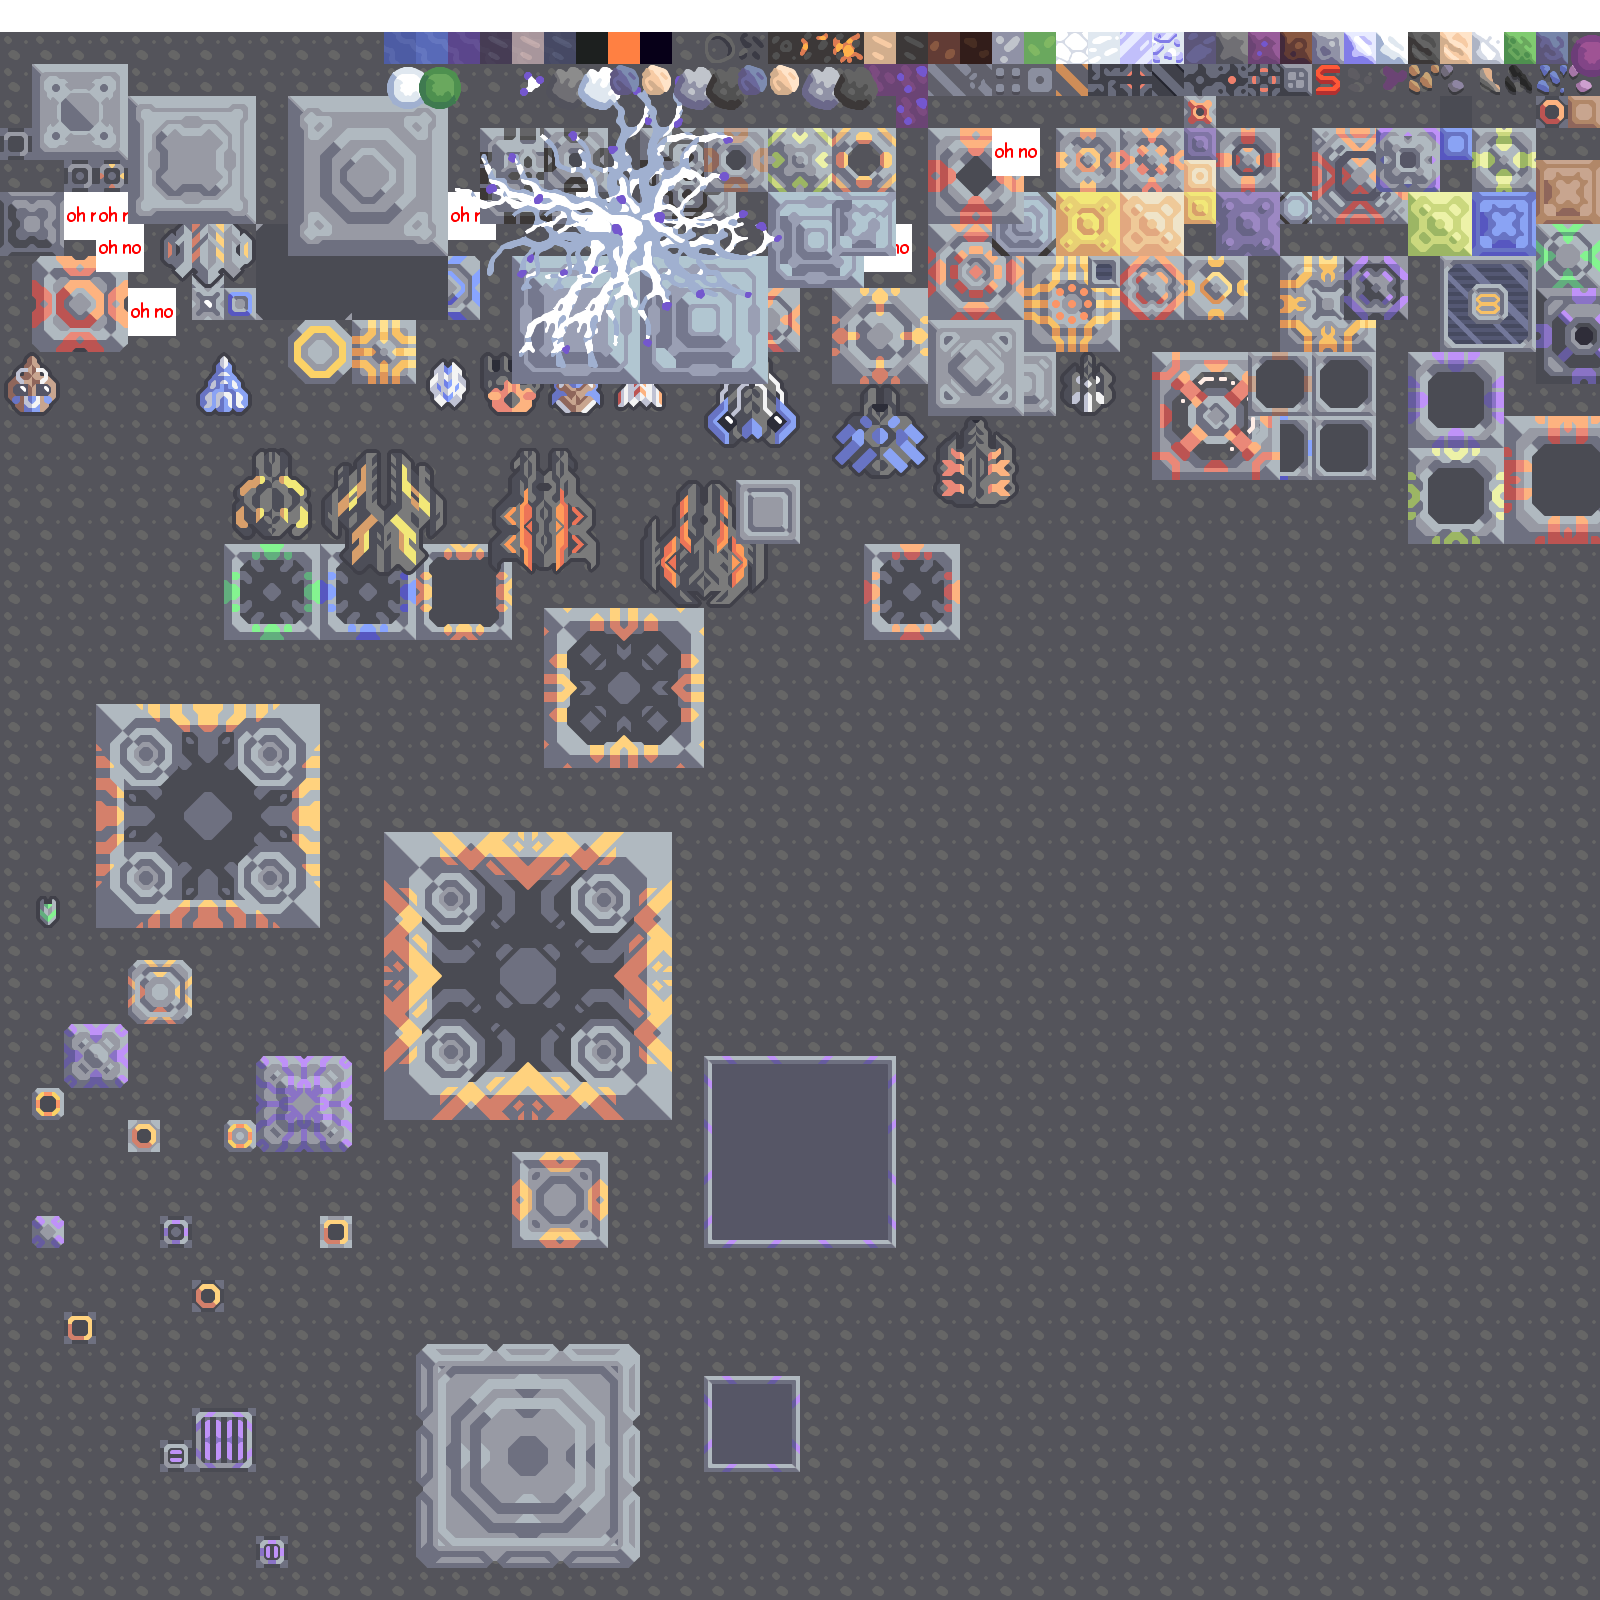
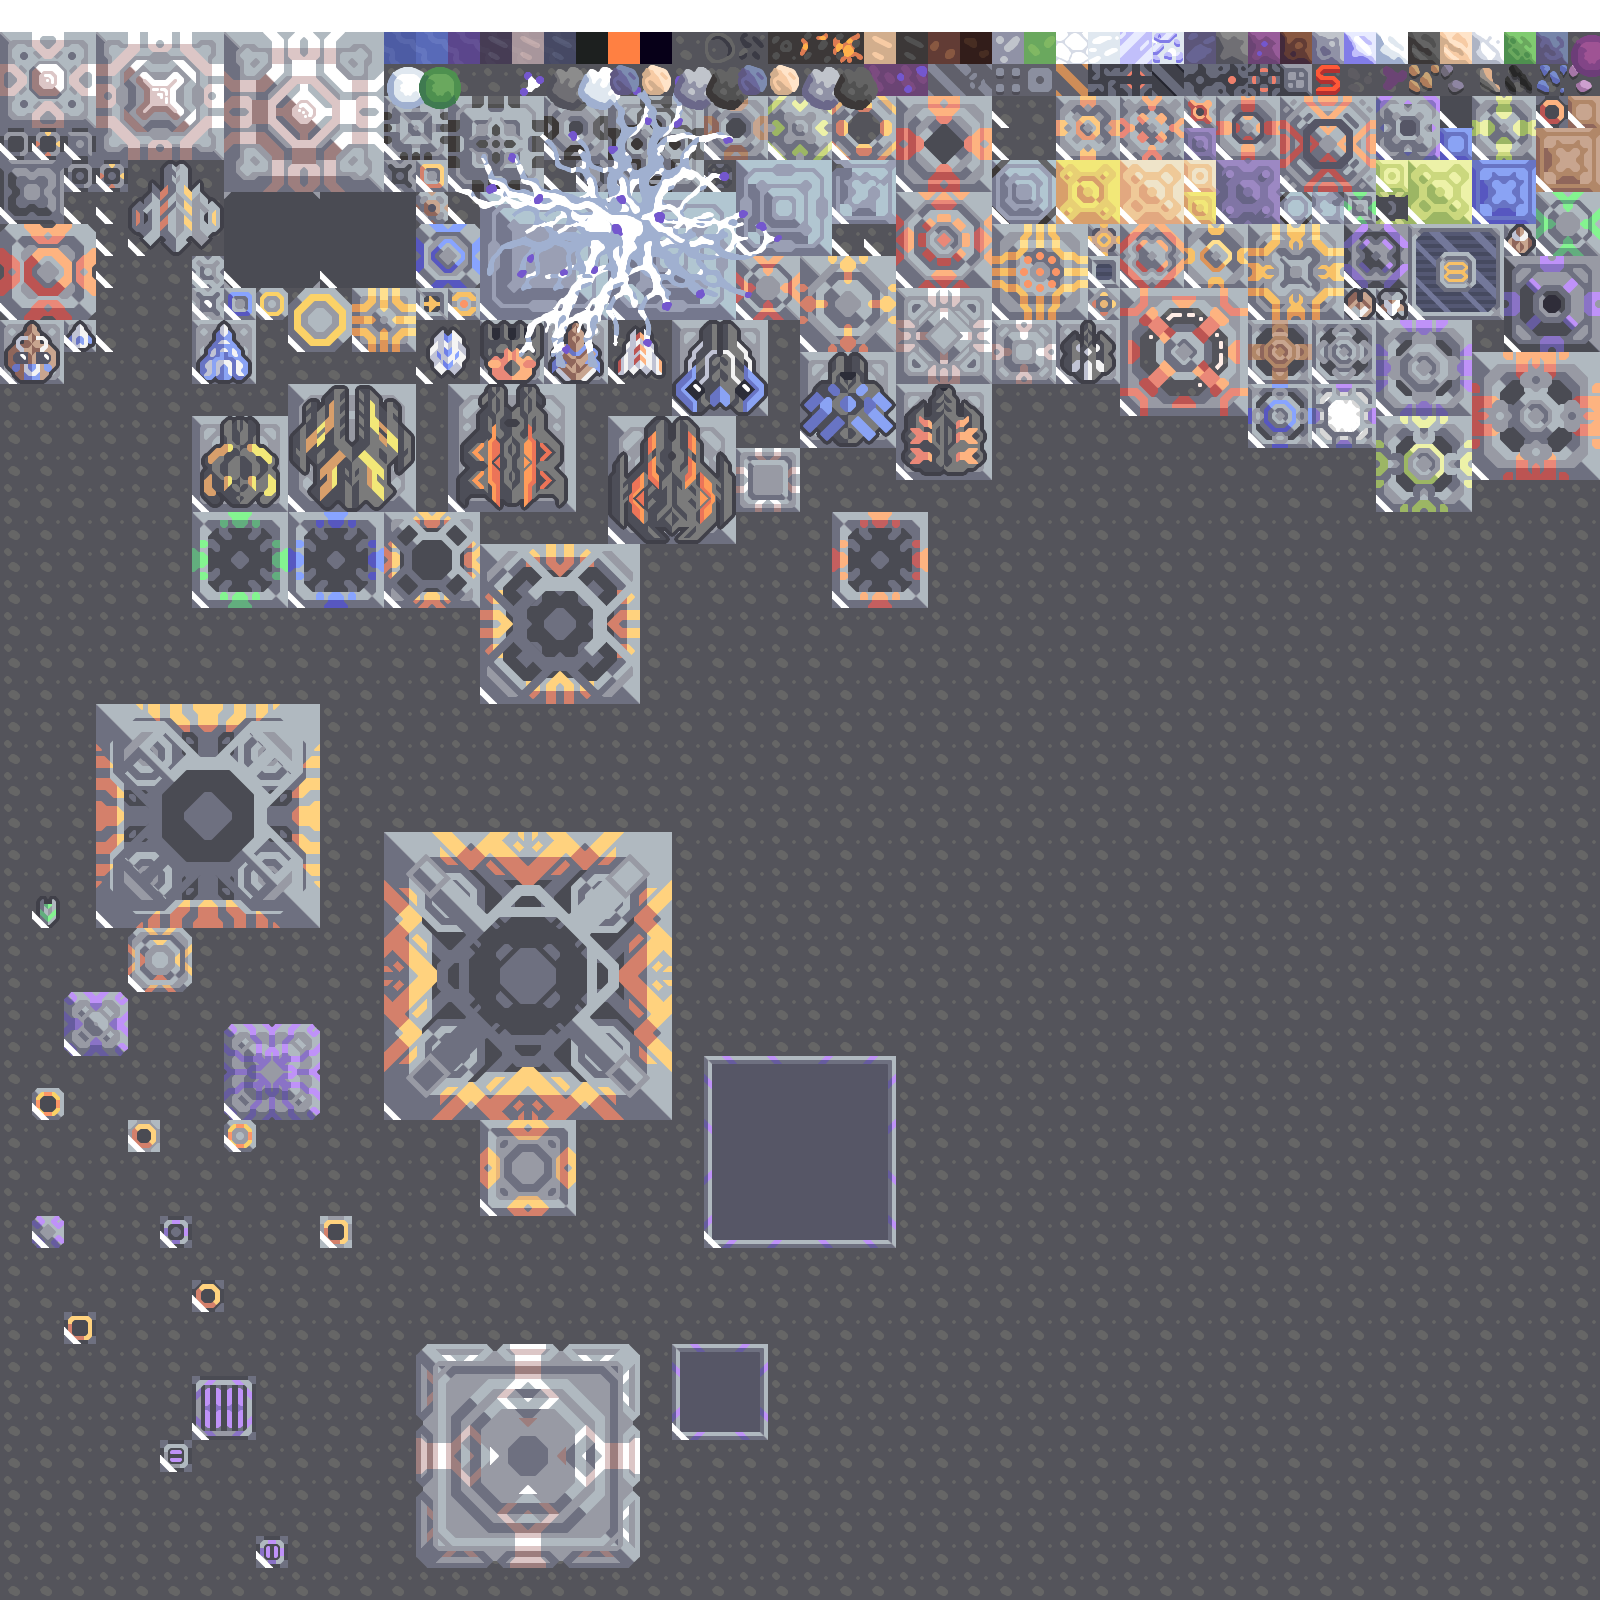
part of blocks drawing

diff --git a/src/main/java/uwu/misaka/Drawler.java b/src/main/java/uwu/misaka/Drawler.java
@@ -4,6 +4,12 @@ import arc.graphics.Pixmap;
 import arc.struct.Seq;
 import mindustry.content.Blocks;
 import mindustry.core.World;
+import mindustry.world.blocks.defense.turrets.Turret;
+import mindustry.world.blocks.distribution.Conveyor;
+import mindustry.world.blocks.production.Drill;
+import mindustry.world.blocks.production.Fracker;
+import mindustry.world.blocks.production.SolidPump;
+import mindustry.world.blocks.units.Reconstructor;
 
 import javax.imageio.ImageIO;
 import java.awt.image.BufferedImage;
@@ -70,7 +76,62 @@ public class Drawler {
                 continue;
             }
             try {
-                image.getGraphics().drawImage(Service.getMyPic(t.wall.region.toString()), t.x * 32, (y_size * 32) - (t.y * 32), null);
+                int y_offset = 0;
+                if (t.wall.size == 2) {
+                    y_offset = 1 * 32;
+                }
+                if (t.wall.size == 3) {
+                    y_offset = 1 * 32;
+                }
+                if (t.wall.size == 4) {
+                    y_offset = 2 * 32;
+                }
+                if (t.wall.size == 5) {
+                    y_offset = 2 * 32;
+                }
+                int x_offset = 0;
+                if (t.wall.size == 2) {
+                    //x_offset = 1*32;
+                }
+                if (t.wall.size == 3) {
+                    x_offset = 1 * 32;
+                }
+                if (t.wall.size == 4) {
+                    x_offset = 1 * 32;
+                }
+                if (t.wall.size == 5) {
+                    x_offset = 2 * 32;
+                }
+
+                if (t.wall instanceof Turret) {
+                    image.getGraphics().drawImage(Service.getMyPic("block-" + t.wall.size), t.x * 32 - x_offset, (y_size * 32) - (t.y * 32) - y_offset, null);
+                }
+
+                image.getGraphics().drawImage(Service.getMyPic(t.wall.region.toString()), t.x * 32 - x_offset, (y_size * 32) - (t.y * 32) - y_offset, null);
+
+                if ((t.wall instanceof Reconstructor)) {
+                    image.getGraphics().drawImage(Service.getMyPic(t.wall.region.toString() + "-top"), t.x * 32 - x_offset, (y_size * 32) - (t.y * 32) - y_offset, null);
+                } else if (t.wall instanceof Drill || t.wall instanceof SolidPump || t.wall instanceof Fracker) {
+                    image.getGraphics().drawImage(Service.getMyPic(t.wall.region.toString() + "-rotator"), t.x * 32 - x_offset, (y_size * 32) - (t.y * 32) - y_offset, null);
+                    image.getGraphics().drawImage(Service.getMyPic(t.wall.region.toString() + "-top"), t.x * 32 - x_offset, (y_size * 32) - (t.y * 32) - y_offset, null);
+                } else if (t.wall == Blocks.cultivator) {
+                    image.getGraphics().drawImage(Service.getMyPic(t.wall.region.toString() + "-middle"), t.x * 32 - x_offset, (y_size * 32) - (t.y * 32) - y_offset, null);
+                    image.getGraphics().drawImage(Service.getMyPic(t.wall.region.toString() + "-top"), t.x * 32 - x_offset, (y_size * 32) - (t.y * 32) - y_offset, null);
+                } else if (t.wall instanceof Conveyor) {
+                    if (t.wall != Blocks.plastaniumConveyor) {
+                        image.getGraphics().drawImage(Service.getMyPic(t.wall.region.toString() + "-0-0"), t.x * 32 - x_offset, (y_size * 32) - (t.y * 32) - y_offset, null);
+                    } else {
+                        image.getGraphics().drawImage(Service.getMyPic(t.wall.region.toString()), t.x * 32 - x_offset, (y_size * 32) - (t.y * 32) - y_offset, null);
+                    }
+                }
+                if ((t.wall.teamRegion != null || t.team != null) && t.wall.synthetic()) {
+                    if (t.wall.teamRegion.toString().equals("error")) {
+                        image.getGraphics().drawImage(Service.getMyPic(t.wall.teamRegion.toString()), t.x * 32 - x_offset, (y_size * 32) - (t.y * 32) - y_offset + (t.wall.size - 1) * 32, null);
+                    } else {
+                        image.getGraphics().drawImage(Service.getMyPic(t.wall.teamRegion.toString()), t.x * 32 - x_offset, (y_size * 32) - (t.y * 32) - y_offset, null);
+                    }
+                }
+
             } catch (NullPointerException | IOException e) {
                 e.printStackTrace();
                 break;

diff --git a/src/main/java/uwu/misaka/Service.java b/src/main/java/uwu/misaka/Service.java
@@ -42,7 +42,6 @@ public class Service {
 
     public static Seq<FakeTile> readMap(InputStream is) throws IOException {
         try (InputStream ifs = new InflaterInputStream(is); CounterInputStream counter = new CounterInputStream(ifs); DataInputStream stream = new DataInputStream(counter)) {
-            //Parser.Map out = new Parser.Map();
             Seq<FakeTile> rtn = new Seq<>();
             SaveIO.readHeader(stream);
             int version = stream.readInt();
@@ -52,21 +51,12 @@ public class Service {
 
             StringMap meta = metaOut[0];
 
-            //out.name = meta.get("name", "Unknown");
-            //out.author = meta.get("author");
-            //out.description = meta.get("description");
-            //out.tags = meta;
 
             int width = meta.getInt("width"), height = meta.getInt("height");
 
             Entry.w = width;
             Entry.h = height;
 
-//            var floors = new BufferedImage(width, height, BufferedImage.TYPE_INT_ARGB);
-//            var walls = new BufferedImage(width, height, BufferedImage.TYPE_INT_ARGB);
-//            var fgraphics = floors.createGraphics();
-//            var jcolor = new java.awt.Color(0, 0, 0, 64);
-//            int black = 255;
             CachedTile tile = new CachedTile() {
                 @Override
                 public void setBlock(Block type) {
@@ -102,6 +92,15 @@ public class Service {
                 @Override
                 public void onReadBuilding() {
                     //read team colors
+                    if (tile.build != null) {
+                        FakeTile t = rtn.find(a -> a.x == tile.x && a.y == tile.y);
+                        if (t != null) {
+                            t.build = tile.build;
+                            if (tile.team() != null) {
+                                t.team = tile.team();
+                            }
+                        }
+                    }
                 }
 
                 @Override
@@ -187,6 +186,14 @@ public class Service {
     }
 
     public static BufferedImage getMyPic(String rg) throws IOException {
-        return ImageIO.read(Parser.imageFiles.get(rg).file());
+        if (rg.equals("error")) {
+            return ImageIO.read(Parser.imageFiles.get("block-border").file());
+        }
+        try {
+            return ImageIO.read(Parser.imageFiles.get(rg).file());
+        } catch (Exception e) {
+            System.out.println(rg);
+            return ImageIO.read(Parser.imageFiles.get("block-border").file());
+        }
     }
 }

diff --git a/src/main/java/uwu/misaka/FakeTile.java b/src/main/java/uwu/misaka/FakeTile.java
@@ -1,6 +1,9 @@
 package uwu.misaka;
 
+import arc.util.Nullable;
 import mindustry.ctype.ContentType;
+import mindustry.game.Team;
+import mindustry.gen.Building;
 import mindustry.world.Block;
 
 import static mindustry.Vars.content;
@@ -11,6 +14,10 @@ public class FakeTile {
     public Block wall;
     public int x;
     public int y;
+    @Nullable
+    public Team team;
+    @Nullable
+    public Building build;
 
     public FakeTile(int x, int y, int fId, int oId, int bId) {
         this.x = (short) x;
